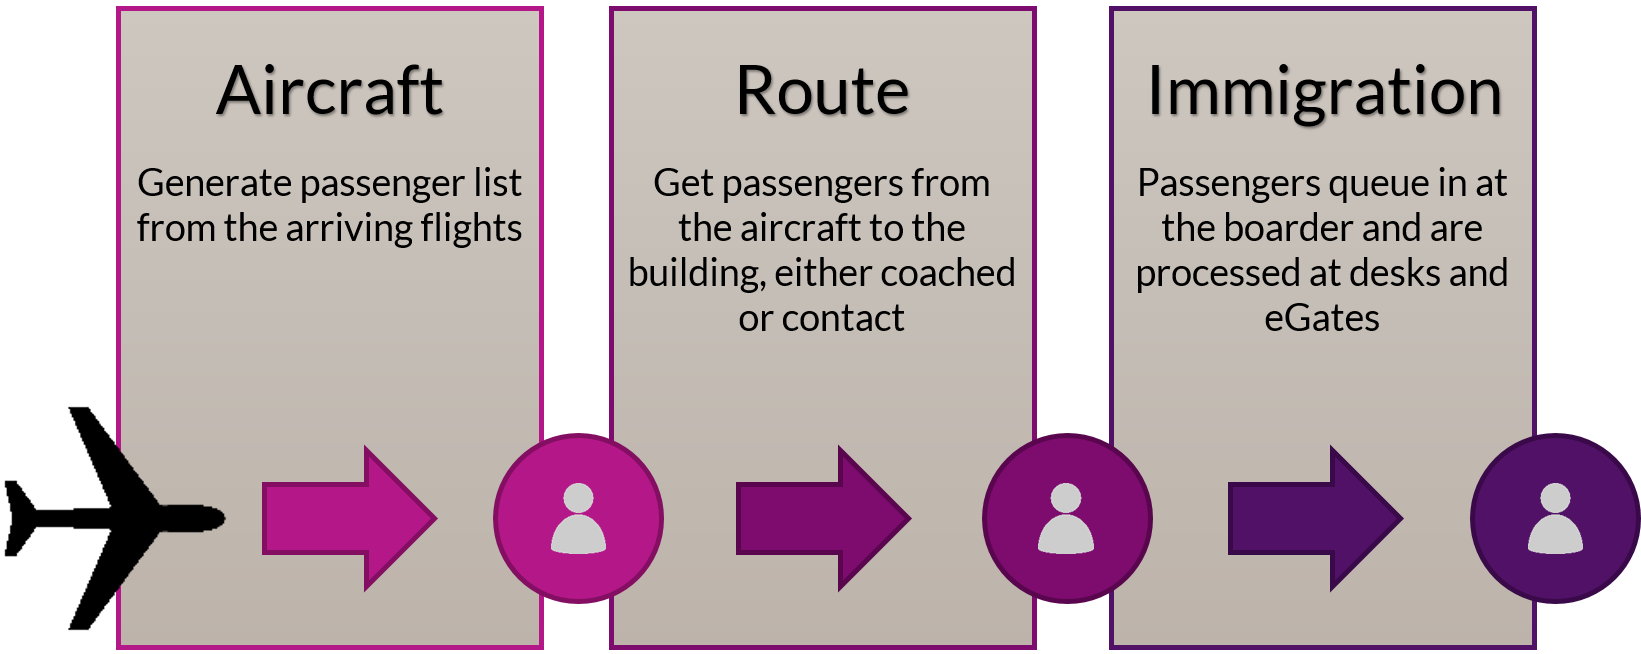
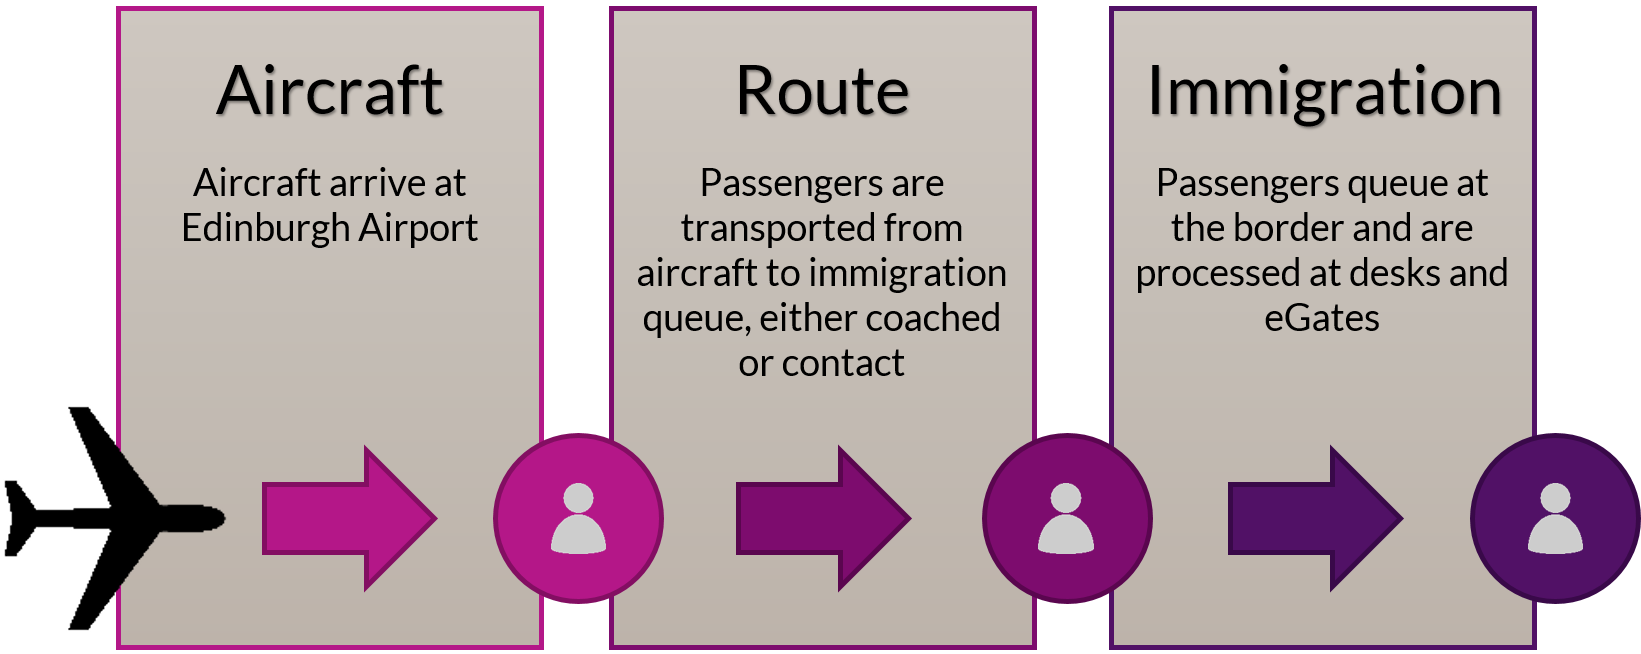
Updates from Overleaf

diff --git a/report/report.tex b/report/report.tex
@@ -6,10 +6,10 @@
 % \usepackage{epsf}
 
 % Draft watermark
-\usepackage[
-stamp = true,
-firstpageonly = true
-]{draftwatermark}
+% \usepackage[
+% stamp = true,
+% firstpageonly = true
+% ]{draftwatermark}
 
 % Font and formatting
 \usepackage[default]{lato}
@@ -194,34 +194,34 @@ We assume that the passenger nationality split depends on departure airport, and
 
 \section{Methods} \label{sec:methods}
 
-In this section we describe our methodology, including details of our abstract modelling framework, practical implementation, construction of a variety of demand scenarios, and the system for evaluating \glspl{kpi} and \glspl{sla}.
+In this section we describe our methodology, including details of our modelling framework, practical implementation, and system for evaluating \glspl{kpi} and \glspl{sla}.
 
 \subsection{Passenger Processing Model}
 
-For all subsequent modelling we use a conceptual `passenger processing model' describing the steps an arriving international passenger experiences at Edinburgh Airport. Such a model is inherently a simplified view, but chosen at a level of abstraction which is nevertheless informative of real-world procedures. Our passenger processing model consist of the three following steps, which are visualised in Figure~\ref{fig:PPM_threesteps}.
-\begin{enumerate}
-    \item \textbf{Aircraft}: Aircraft with passengers on board arrive at Edinburgh Airport. The aircraft taxi to their parking positions and their doors are opened. \label{step:aircraft}
-    \item \textbf{Route}: Passengers make their way from their aircraft to the immigration hall, either by walking to the building (contact) or via a bus (coached). \label{step:route}
-    \item \textbf{Immigration}: Passengers queue in the immigration hall and are processed at the border, either by a \gls{bfo} at a desk or at an \gls{egate}. \label{step:immigration}
-\end{enumerate}
+For all subsequent modelling we use a conceptual `passenger processing model' describing the steps an arriving international passenger experiences at Edinburgh Airport. Such a model is inherently a simplified view, but chosen at a level of abstraction which is nevertheless informative of real-world procedures. Our passenger processing model consists of three steps, which are described and visualised in Figure~\ref{fig:PPM_threesteps}.
+% \begin{enumerate}
+%     \item \textbf{Aircraft}: Aircraft with passengers on board arrive at Edinburgh Airport. The aircraft taxi to their parking positions and their doors are opened. \label{step:aircraft}
+%     \item \textbf{Route}: Passengers make their way from their aircraft to the immigration hall, either by walking to the building (contact) or via a bus (coached). \label{step:route}
+%     \item \textbf{Immigration}: Passengers queue in the immigration hall and are processed at the border, either by a \gls{bfo} at a desk or at an \gls{egate}. \label{step:immigration}
+% \end{enumerate}
   
  % We start with a dataset of arriving flights and generate a dataset of passengers (\textit{Aircraft} step). In the \textit{Route} step these passengers are then brought from the aircraft to the immigration hall. Finally, in the \textit{Immigration} step they queue up and are subsequently processed at the border.
 
 \begin{figure}[!ht]
     \centering
     \figuretitle{Abstracting arriving passengers' flow through the airport}
-    \includegraphics[width=0.7\textwidth]{figures/ThreeSteps.png}
+    \includegraphics[width=0.9\textwidth]{figures/ThreeSteps.png}
      \caption{Three steps that make up the passenger processing model.} \label{fig:PPM_threesteps}
 \end{figure}
 
 \subsection{Assumptions and Choices}
 % these are slightly different for competition and noise data
-At each step of the Passenger Processing Model there are assumptions to be made and choices to be taken. We summarise them here. Our key levers for robustness checks are the number of \glspl{egate}, \gls{egate} eligibility, and \gls{egate} uptake, which are defined in Section~\ref{subsec:choices_immigration}.
+Each step of our passenger processing model relies on assumptions to be made and choices to be taken. We summarise them here. Our key levers to determine demand scenarios are: (1) the number of \glspl{egate}, (2) \gls{egate} eligibility, and (3) \gls{egate} uptake, which are defined in Section~\ref{subsec:choices_immigration}.
 
 \subsubsection{Aircraft}
 
 \paragraph{Departing airport classification}
-The arrivals dataset provided by the modelling competition (Section~\ref{sec:future_arrivals_data}) does not contain information regarding the departing airport. As this is provided in the additional dataset (Section~\ref{sec:observed_arrivals_data}) we are able to randomly sample airport classifications for the competition dataset conditional on the number of passengers on the flight, for an approximate distributional match. 
+The arrivals dataset provided by the modelling competition (Section~\ref{sec:future_arrivals_data}) does not contain information regarding aircraft's departing airports. As this is provided in the additional dataset (Section~\ref{sec:observed_arrivals_data}) we are able to randomly sample airport classifications for the competition dataset conditional on the number of passengers on the flight, for an approximate distributional match. 
 
 
 
@@ -235,28 +235,28 @@ The competition data gives an overall split of flights that are coached or conta
 \subsubsection{Route}
 
 \paragraph{Coach availability}
-For this analysis we assume sufficient coaches are always available to transport passengers from the aircraft to the airport building. While this might not be always the case, it provides us with a `worst case' scenario from the perspective of the immigration hall, which is most interesting for us. Any delay in passengers due to unavailability of coaches would smooth out peaks.
+For this analysis we assume sufficient coaches are always available to transport passengers from the aircraft to the airport building. While this might not be the case for all flights, it provides us with a `worst case' scenario from the perspective of the immigration hall, which is of interest. Any delay in passengers due to unavailability of coaches would smooth out peaks.
 
 \paragraph{Arrival profile} 
- Passengers brought to the immigration hall by coach arrive at the queue in rapid succession. Coached passengers join the immigration queue, on average, every 1 second. In comparison, contact passengers make it to the immigration queue, on average, every 5 seconds.
+ Passengers brought to the immigration hall by coach arrive at the queue in rapid succession. Coached passengers join the immigration queue, on average, every 1 second. In comparison, contact passenger reach the immigration queue, on average, every 5 seconds.
 
 
 
 \subsubsection{Immigration} \label{subsec:choices_immigration}
 
-\paragraph{Number of eGates and desks} There are currently 10 \glspl{egate} and 9 \gls{bfo}-staffed desks in use at Edinburgh Airport. In our analysis we simulate the effects of an increasing number of \gls{egate}.
+\paragraph{Number of eGates and desks} There are currently 10 \glspl{egate} and 9 \gls{bfo}-staffed desks in use at Edinburgh Airport \cite{modelling_competition}. In our analysis we simulate the effects of an increasing number of \glspl{egate}.
 
 \paragraph{eGate eligibility}
-As only passengers from certain countries are can use \glspl{egate}, we make the percentage of passengers eligible for \glspl{egate} per aircraft dependent on the classification of its departue airport. For example, we assume that an aircraft coming from a hub is more likely to carry a variety of international passengers, of which fewer can use \glspl{egate} compared to a flight from a EU+ non-hub. 
+As only passengers from certain countries can use \glspl{egate}, we make the percentage of passengers eligible for \glspl{egate} per aircraft dependent on the classification of its departue airport. For example, we assume that an aircraft coming from a hub is more likely to carry a variety of international passengers, of which fewer can use \glspl{egate} compared to a flight from a EU+ non-hub. 
 
 \paragraph{eGate uptake} 
-Not all passengers who are eligible to use eGates choose to do so for a variety of reasons. As a base case we use a 80\% uptake in 2023, which is selectively increased in our simulation. 
+Not all passengers who are eligible to use eGates choose to do so, for a variety of reasons. We assume an 80\% uptake in 2023. 
 
 \paragraph{eGate usage}
-The \gls{egate} usage is the proportion of all passengers who go through an \gls{egate}. It equal to the product of \gls{egate} eligibility and \gls{egate} uptake.
+The \gls{egate} usage is the proportion of all passengers who enter an \gls{egate}. It is equal to the product of \gls{egate} eligibility and \gls{egate} uptake. In our simulations, we vary overall \gls{egate} usage over time between baseline and future levels provided by the modelling competition.
 
 \paragraph{Priority for failed eGate passengers}
-Passengers who used an \gls{egate}, but failed to use it successfully, need to exit the \gls{egate} back into the immigration hall to complete their immigration at a staffed desk. They join a separate queue towards the desks, which is located next to the general desk queue. Whenever a desk can handle a new person, priority is given to the passenger from the failed \gls{egate} queue with a probability of 75\%.
+Passengers who enter an \gls{egate}, but fail to use it successfully, need to exit the \gls{egate} back into the immigration hall to complete their immigration at a staffed desk. They join a separate queue, located by the front of the general desk queue. In our simulations, whenever a desk becomes available priority is given to the passenger from the failed \gls{egate} queue with a probability of 75\%.
 
 % \paragraph{Capacity split}
 % Which percentage of the hall capacity is allocated to the desk queue. Varied to change the effect of queue length of contingency usage.
@@ -264,120 +264,139 @@ Passengers who used an \gls{egate}, but failed to use it successfully, need to e
 
 \subsection{Implementation}
 
-For a given configuration of number of \glspl{egate}, eligibility, and uptake we produce a simulation of immigration queues based on our passenger processing model. Its output then allows us to calculate the \glspl{kpi} and \glspl{sla} as defined in Section~\ref{sec_kpi}~and~\ref{sec_sla}, respectively.  In the following we describe how the competition data set is used in each of the three steps of the passenger processing model. Figure~\ref{fig:workflow_fig} gives an illustration of our workflow for a two-hour window of anticipated arrivals.
+For a given configuration of number of \glspl{egate}, eligibility, and uptake we produce a simulation of immigration queues based on our passenger processing model. Its output then allows us to calculate the \glspl{kpi} and \glspl{sla} defined in Sections~\ref{sec_kpi}~and~\ref{sec_sla} respectively.  We now describe how the competition dataset is used in each of the three steps of the passenger processing model. Figure~\ref{fig:workflow_fig} gives an illustration of our workflow for a two-hour window of anticipated arrivals.
 
 \begin{figure}[!ht]
     \centering
     \figuretitle{Implementation of passenger processing model allows for systematic simulation of immigration queues}
     \includegraphics[width=1.1\textwidth]{figures/workflow_fig.png}
-    % \vspace{-5pt}
-     \caption{Example application of simulation workflow for three-stage passenger processing model, applied to anticipated arrivals schedule between 08:00am and 10:00am on the 11th of June, 2023. \textbf{Left}: Aircraft of different sizes arrive at Edinburgh Airport. Arrows from scheduled to actual arrival time. \textbf{Centre}: Passengers disembark from their aircraft and are coached or walk via contact to to immigration hall. Passenger count is coloured by flight. \textbf{Right}: Passengers queue, either for a desk border check or an \gls{egate}. Queue length is reported every minute (upper panel), and wait time from arrival in the immigration hall to the start of the relevant border check (lower panel).} \label{fig:workflow_fig}
+     %\vspace{-10pt}
+     \caption{Example application of simulation workflow for three-stage passenger processing model, applied to anticipated arrivals schedule between 08:00am and 10:00am on the 11th of July, 2023. \textbf{Left}: Aircraft of different sizes arrive at Edinburgh Airport. Arrows from scheduled to actual arrival time. \textbf{Centre}: Passengers disembark from their aircraft and are coached or walk via contact to the immigration hall. Passenger count is coloured by flight. \textbf{Right}: Passengers queue, either for a desk border check or an \gls{egate}. Queue length is reported every minute (upper panel), and wait time is calculated from arrival in the immigration hall to the start of the relevant border check (lower panel).} \label{fig:workflow_fig}
 \end{figure}
 
 \subsubsection{Aircraft}
-We take the provided flight schedule data as an input of the Aircraft step. We assume that all of the flights provided are coming from non-UKIE destinations and hence their passengers need to clear immigration at Edinburgh Airport. Based on the flight schedule we simulate the actual arrival according to the given delayed/early arrival information. Given the provided split per year we decide for each flight if it is coached or contact. Based on this we sample a base route time (walking or coached) from the parking position. The passenger numbers per flight are known, and we use this information to sample a departure airport classification according to the empirical distribution obtained from the historic flight data. Taking the above flight information as an input we generate a list of passengers per flight. For each passenger we sample a nationality classification based on the departure airport. The output of the Aircraft step is a passenger list, which also contains all the covariates describing their flight.
+We take the provided flight schedule data as an input to the Aircraft step. We assume that all of the flights provided are coming from non-UKIE destinations and hence their passengers need to clear immigration at Edinburgh Airport. Based on the flight schedule we simulate actual time of arrival. Given the provided split per year we simulate whether a flight is coached or contact. According to this we sample a baseline route time (walking or coached) from the aircraft's parking position to the immigration queue. 
+
+Passenger numbers per flight are known, and we use this information to sample a departure airport classification according to the empirical distribution obtained from the historic flight data. Taking the above flight information as an input we generate a list of passengers per flight. For each passenger we sample a nationality classification based on the departure airport. The output of the Aircraft step is a passenger list, which also contains all relevant information describing their flight.
 
 \subsubsection{Route}
 
-Given the passenger list from the previous step, we simulate the time each passenger spends getting from their flight's parking position and to the immigration queue. This is depending on the base route time 
-of the flight and whether they were on a coached flight or not. This step adds additional information to each passenger. Crucially, it gives us the arrival time of each passenger at the immigration queue. 
+Given the passenger list from the previous step, we simulate the time each passenger spends getting from their flight's parking position to the immigration queue. This depends on the baseline route time 
+of their flight and whether they were coached or not. This step gives us the arrival time of each passenger at the immigration queue. 
 
 \subsubsection{Immigration}
 
-Based on the passenger-level information obtained in the previous step we now process each passenger at the border according to their arrival time at the immigration queue. First, we determine the eligibility to use \glspl{egate} per passenger according to their nationality classification. 
+Based on the passenger-level information obtained in the previous step we now process each passenger at the border according to their arrival time at the immigration queue. First, we determine the eligibility to use \glspl{egate} per passenger in line with their simulated nationality classification. 
 
-Passengers not eligible to use \glspl{egate} join the desk queue and, once they reach the front of the queue and a free desk becomes available, they are processed by a \gls{bfo}. We sample the processing time for each passenger such that the transaction times match the provided information. Once a passenger is processed at a desk they have cleared immigration and leave the system.
+Passengers not eligible to use \glspl{egate} join the desk queue and, once they reach the front of the queue and a desk becomes available, they are processed by a \gls{bfo}. We sample the processing time for each passenger according to the provided distributional assumptions. Once a passenger is processed at a desk they have cleared immigration and leave the system.
 
-Not all passengers eligible to use \glspl{egate} will do so. The decision to use \gls{egate} is taken for each eligible passenger according to the chosen \gls{egate} uptake rate. \gls{egate}-eligible passengers who choose to use a desk instead join the desk queue and are processed like any other passengers in that queue. 
+Not all passengers eligible to use \glspl{egate} will do so. The decision to use an \gls{egate} is taken for each eligible passenger as per the given \gls{egate} uptake rate. Passengers eligible to use an \gls{egate} who use a desk instead join the desk queue and are processed like any other passenger in that queue. 
 
-Those who are eligible to use \glspl{egate} and choose to do so join the \gls{egate} queue. Once a passenger reaches the front of the queue and a free \gls{egate} becomes available they step into the \gls{egate} and are processed according to the provided transaction time. Most passengers finish this process successfully and exit the \gls{egate} on the other side, which completes their immigration and they exit the system.
+Those who are eligible and selected to use an \gls{egate} join the \gls{egate} queue. Once a passenger reaches the front of the queue and an \gls{egate} becomes available they step into the \gls{egate} and are processed with a transaction time drawn from the provided distribution. Most passengers finish this process successfully and pass through the \gls{egate} to the other side, which completes their immigration and they exit the system.
 
-A small fraction of passengers does not pass the \gls{egate} successfully. They are prompted to step out of the \gls{egate} back into the hall and have not completed immigration yet. Instead, they need to be processed by a \gls{bfo}. For that, these passengers are directed towards a separate queuing area in the middle of the hall that brings them towards the front of the desk queue. When a desk becomes available passengers that have failed the \gls{egate} have priority over the passenger at the front of the desk queue with a defined probability. Once they reach a desk, they are processed like any other passenger from the desk queue and exit the system.
+A small number of passengers fail to use the \gls{egate} successfully. They are prompted to step out of the \gls{egate} back into the hall and have not yet completed immigration. Instead, they need to be processed by a \gls{bfo}. For that, these passengers are directed towards a separate queuing area in the middle of the hall that brings them towards the front of the desk queue. When a desk becomes available passengers that have failed the \gls{egate} have priority over the passenger at the front of the desk queue with a defined probability. Once they reach a desk, they are processed like any other passenger from the desk queue and exit the system.
 
+\subsection{KPIs and SLAs}
+The output of a full simulation of our passenger processing model contains information on a passenger level. For each passenger we record whether they used an \gls{egate} or a desk and how much time passed between their arrival at the immigration queue and the start of their border check. Based on this, we calculate the relevant \glspl{kpi} regarding wait times per passenger and the length of the immigration queue at a given point in time. These then feed into the respective \glspl{sla} as defined in Section~\ref{sec_sla}.
 
 \section{Recommendation}
 
-Based on the methodology described in Section~\ref{sec:methods} we have simulated a variety of scenarios. There are three key values that we vary across simulations (1) the number of \glspl{egate}, (2) the \gls{egate} eligibility, and (3) the \gls{egate} uptake. This now allows us to make recommendations for the appropriate number of \glspl{egate} to cope with future demand on border operations at Edinburgh Airport. Robustness considerations are subsequently undertaken in Section~\ref{sec:robustness}. 
+Based on the methodology described in Section~\ref{sec:methods} we have simulated a variety of scenarios. There are three quantities that we vary across simulations: (1) the number of \glspl{egate}, (2) \gls{egate} eligibility, and (3) \gls{egate} uptake. This allows us to make recommendations for an appropriate number of \glspl{egate} to cope with future demand on border operations at Edinburgh Airport. Robustness considerations are subsequently undertaken in Section~\ref{sec:robustness}. 
 
 \subsection{Number of eGates} \label{sec:rec_num_egates}
 
-The lowest feasible number of \glspl{egate} is of interest to Edinburgh Airport. Based on our extensive simulations we recommend the \gls{egate} strategy outlined in Table~\ref{tab:core_recommendation}, where for each year we give the minimum recommended number of \glspl{egate} to be available for that year (including currently available \glspl{egate}). 
+The lowest feasible number of \glspl{egate} is of interest to Edinburgh Airport. Based on our extensive simulations we recommend the \gls{egate} strategy outlined in Table~1, where for each year we give the minimum recommended number of \glspl{egate} to be available for that year (including currently available \glspl{egate}). 
 
-\input{tables/core_recommendation}
-% \begin{table}[!htp]
-%     \centering
-%     \begin{tabular}{cccccc} \hline
-%          \textbf{2023} & \textbf{2024} & \textbf{2025} & \textbf{2026} & \textbf{2027}  \\ \hline
-%           x & x & x & x & x \\
-%           \hline
-%     \end{tabular}
-%     \caption{Core recommendation for eGate construction.}
-%     \label{tab:core_recommendation}
-% \end{table}
+\vspace{2mm}
+\tcbset{colframe=edi-dark-purple,colback=edi-light-purple,colupper=black,
+fonttitle=\bfseries,nobeforeafter,center title}
+\begin{center}
+\tcbox[left=00mm,right=00mm,top=0mm,bottom=0mm,boxsep=0mm,
+toptitle=0.5mm,bottomtitle=0.5mm,title={Table~1: Core recommendation for eGate construction}]{%
+\renewcommand{\arraystretch}{1.2}%
+\begin{tabular}{ccccccccc}
+& & \textbf{2023} & \textbf{2024} & \textbf{2025} & \textbf{2026} & \textbf{2027} & &  \\\hline
+ ~~~~ & ~~~~ & 15 & 19 & 21 & 23 & 23 & ~~~~ & ~~~~\\
+\end{tabular}}
 
-This strategy has been chosen such that more than 99\% of passengers that use \glspl{egate} wait less than an hour for every year in the given period and that no more than five hours per week of contingency usage are observed while the \gls{egate} hall queue is full. All simulations are under the assumptions of eligibility and uptake shown in Figure~\ref{fig:core_rec_fig}. Following this strategy, the proportion of \gls{egate} passengers waiting for less than 15 minutes (Edinburgh Airport's internal target) is always above 90\%. 
+\end{center}
+\vspace{1mm}
+% \input{tables/core_recommendation}
 
-Without changes to \gls{egate} eligibility and uptake, no amount of \gls{egate} construction will prevent their being some pressure on Edinburgh Airport's desk border check queues. In the simulations shown we have assumed smooth transitions in \gls{egate} eligibility and uptake leading up to the airport's 95\% total usage target for 2028 (see Section~\ref{subsec:choices_immigration}; bottom left panel of Figure~\ref{fig:core_rec_fig}). In this scenario, desk wait times (centre panel of Figure~\ref{fig:core_rec_fig}) do not meet \glspl{sla} until improvements in \gls{egate} usage are made later in the time frame XXX. Most concerningly, extensive time is spent using contingency and even exceeding contingency capacity due to queues for desk border checks (right hand panel). 
+This strategy has been chosen such that at least 99\% of \glspl{egate} passengers wait less than an hour for every year in the given period and that no more than five hours per week of contingency usage are observed while the \gls{egate} hall queue is full. All simulations are under the assumptions of eligibility and uptake shown in Figure~\ref{fig:core_rec_fig}. Following this strategy, the proportion of \gls{egate} passengers waiting for less than 15 minutes (Edinburgh Airport's internal target) is always above 90\%. This recommendation results in simulated average wait times for \glspl{egate} of between 1.5 and 4 minutes over the five-year period. These are lower than historic UK wait times, and in line with wait times at Stansted and Luton, which reported particularly low figures. 
 
 \begin{figure}[!ht]
     \centering
     \figuretitle{Under core recommendation, eGate queue lengths and wait times meet SLAs}
     \includegraphics[width=\textwidth]{figures/core_rec_fig.png}
-     \caption{\textbf{Left}: \gls{egate} construction recommendation and assumed progression of \gls{egate} eligibility and uptake. \textbf{Centre}: Wait time \glspl{kpi}, averaged over 25 simulations. \textbf{Right}: Queue length \glspl{kpi}, also over 25 simulations.} \label{fig:core_rec_fig}
+     \caption{\textbf{Left}: \gls{egate} construction recommendation and assumed progression of \gls{egate} eligibility and uptake. \textbf{Centre}: Wait time \glspl{kpi}, averaged over 100 simulations. \textbf{Right}: Queue length \glspl{kpi}, also over 100 simulations.} \label{fig:core_rec_fig}
 \end{figure}
 
-This recommendation results in simulated average wait times for \glspl{egate} of between XX and XX minutes over the five-year period. This is lower than historic average wait times across the UK. These numbers are in line with the wait times at Stansted and Luton, which reported particularly low figures. 
+In the simulations shown we have assumed smooth transitions in \gls{egate} eligibility and uptake leading up to the airport's 95\% total usage target for 2028 (see Section~\ref{subsec:choices_immigration}; bottom left panel of Figure~\ref{fig:core_rec_fig}). In this scenario, desk wait times (centre panel of Figure~\ref{fig:core_rec_fig}) do not meet \glspl{sla} until improvements in \gls{egate} usage are made. Extensive time is spent using contingency and even exceeding contingency capacity due to queues for desk border checks (right hand panel). 
+
+These predictions for queues of passengers waiting to be processed by desks are concerning, and deserve further justification as being a direct consequence of the provided modelling assumptions. We therefore consider a window of time between 11am and 5pm on June 10th 2023 -- the very first date in the time period under study. In these six hours, 6,864 passengers are scheduled to arrive at Edinburgh Airport. Of these passengers, 40\% (2,746) are expected to queue for desk processing according to the airport's estimates of overall \gls{egate} usage. The immigration hall has nine desks, each processing on average one passenger per ninety seconds. We may therefore expect 360 passengers to be processed per hour, or 2,160 over the six hour period in question. This therefore leaves at least 586 passengers still queuing for desks at 5pm on June 10th \emph{regardless of the distribution of arrivals throughout that window}. This, absent any consideration of \gls{egate} passengers, leaves the hall well above capacity. In light of the above, without changes to underlying modelling assumption provided by the airport no number of \glspl{egate} can be expected to avoid the scenarios of contingency usage and even exceeding of contingency capacity described in Figure~\ref{fig:core_rec_fig}.
+
 
  % Our recommendation implies the purchase of a total XX new \glspl{egate}, as there are currently 10 \glspl{egate} in operation at Edinburgh Airport. To put this number into perspective, the Home Office has approved funding of up to 70 \glspl{egate} UK-wide to increase capacity at larger airports \cite{Inspection_eGates}. With Edinburgh being among the top ten busiest airports in the UK \cite{busiestairport}, it does not seem unreasonable to assume that XXX new \glspl{egate} are built over the course of five years. \bdnote{i think this paragraph should go}
 
-\newpage
 \subsection{Hall Space Allocation}
 
-The queue space in the immigration hall is separated for the desk and \gls{egate} queue. We assume that this split is not altered on a regular basis. As part of our analysis it was crucial to investigate the optimal split of immigration hall capacity between the two queues for each year. After extensive simulation we found overflow usage was minimised (given our core assumptions on \gls{egate} eligibility and uptake) under the split outlined in Table~\ref{tab:split}. This proposed queue space allocation has been used in all our simulations to determine overflow and contingency usage.
+Space in the immigration hall is separated for desk and \gls{egate} queues. We assume that this split is not altered frequently. However, we do investigate the impact on \glspl{sla} when hall split is allowed to vary year-by-year. For each year, we simulate the impact of multiple hall split scenarios and choose a realistic hall split that minimises overall usage of contingency space. These splits are outlined in Table~2, and reflected in the results shown in the previous section. As mentioned, we find that pressure on desk queues is particularly strong in the years 2023-2025, corresponding to the allocation of a significant proportion of hall space to desk queues. This trend is reversed towards the end of the study period, by which time most passengers use \glspl{egate}.
 
-\begin{table}[!htp]
-    \centering
-    \begin{tabular}{ccccccc} \hline
-        & \textbf{2023} & \textbf{2024} & \textbf{2025} & \textbf{2026} & \textbf{2027}  \\ \hline
-         eGate & x & x & x & x & x \\
-         Desk & x & x & x & x & x \\
-          \hline
-    \end{tabular}
-    \caption{Percentage of hall space allocated to each queue.}
-    \label{tab:split}
-\end{table}
+% After extensive simulation we found overflow usage was minimised (given our core assumptions on \gls{egate} eligibility and uptake) under the split outlined in Table~2. This proposed queue space allocation has been used in all our simulations to determine overflow and contingency usage.
+
+% The pressure on the desk queue is particularly strong in the earlier years, which is reflected in a significant proportion of hall space being allocated to the desk queue. This is reversed towards the end of the observation period when most passengers use \glspl{egate} due to the increased uptake.
+
+\vspace{2mm}
+\tcbset{colframe=edi-dark-purple,colback=edi-light-purple,colupper=black,
+fonttitle=\bfseries,nobeforeafter,center title}
+\begin{center}
+\tcbox[left=00mm,right=00mm,top=0mm,bottom=0mm,boxsep=0mm,
+toptitle=0.5mm,bottomtitle=0.5mm,title={Table~2: Percentage of hall space allocated to each queue}]{%
+\renewcommand{\arraystretch}{1.2}%
+\begin{tabular}{cccccccccc}
+ & & \textbf{Queue Type} & \textbf{2023} & \textbf{2024} & \textbf{2025} & \textbf{2026} & \textbf{2027} & &  \\\hline
+~ & ~ & eGate & 25\% & 25\% & 25\% & 30\% & 75\% & ~ & ~\\
+~ & ~ & Desk & 75\% & 75\% & 75\% & 70\% & 25\% & ~ & ~
+\end{tabular}}
+\label{tab:split}
+\end{center}
 
 
 \section{Robustness Considerations} \label{sec:robustness}
-In producing the recommendation given Section~\ref{sec:rec_num_egates}, we made assumptions about external factors such as \gls{egate} eligibility and the progress of \gls{egate} construction that could be liable to change. Here we investigate the effect of such variation on the performance of immigration services.
+In producing the recommendation given in Section~\ref{sec:rec_num_egates}, we made assumptions about external factors such as \gls{egate} eligibility and the progress of \gls{egate} construction that could be liable to change. Here we investigate the effects of such variation on the performance of immigration services.
 
 \subsection{Eligibility, Uptake, and Usage}
-Edinburgh Airport envisages 95\% of passengers using \glspl{egate} at the end of 2027, up from 60\% in 2022. Overall \gls{egate} usage is equal to the product of \gls{egate} eligibility and uptake. While increases in \gls{egate} eligibility are planned \cite{UK_border_2025}, they fall largely outside of Edinburgh Airport's direct control. We therefore aimed to test whether lower than anticipated \gls{egate} eligibility could be compensated for by improvements to \gls{egate} uptake. We simulated a variety of combinations of eligibility and uptake for arrivals in 2027, the busiest year forecast in the given time period. In Figure~\ref{fig:robustness_fig} we show a selected range of \glspl{kpi} for these scenarios, and see that, as long as eligibility reaches XX\%, acceptable performance is achievable purely through compensatory uptake.
+Edinburgh Airport envisages 95\% of passengers using \glspl{egate} by the end of 2027, up from 60\% at present. Overall \gls{egate} usage is equal to the product of \gls{egate} eligibility and uptake. While increases in \gls{egate} eligibility are planned \cite{UK_border_2025}, they fall largely outside of Edinburgh Airport's direct control. We therefore investigate whether lower than anticipated \gls{egate} eligibility could be compensated for by improvements in \gls{egate} uptake. We simulate a variety of combinations of eligibility and uptake for arrivals in 2027, the busiest year forecast, with the recommended 23 \glspl{egate}. In Figure~\ref{fig:robustness_fig} we show a range of \glspl{kpi} for these scenarios, and see that, as long as eligibility reaches 90\%, acceptable performance is achievable purely through compensatory uptake.
 
 \begin{figure}[!ht]
     \centering
     \figuretitle{With lower than expected eGate eligibility, increased eGate uptake can compensate}
     \includegraphics[width=\textwidth]{figures/robustness_fig.png}
-     \caption{\textbf{Top panels}: Average (over 25 simulations) number of minutes in 2027 week spent with contingency use caused by \gls{egate} or desk queues, under a variety of eligibility/uptake scenarios. \textbf{Bottom panels}: Average (over 25 simulations) proportion of passengers waiting less than 60 minutes, for the same range of scenarios.} \label{fig:robustness_fig}
+     \caption{\textbf{Top panels}: Average (over 100 simulations) number of minutes in 2027 week spent with contingency use caused by \gls{egate} or desk queues, under a variety of eligibility/uptake scenarios. \textbf{Bottom panels}: Average (over 25 simulations) proportion of passengers waiting less than 60 minutes, for the same range of scenarios.} \label{fig:robustness_fig}
 \end{figure}
 
 \subsection{Number of eGates}
-We selected the recommendation laid out in Section~\ref{sec:rec_num_egates} in order to minimise the need for new \gls{egate} construction while satisfying the conditions we described. However, for practical reasons the airport may choose to place immigration services under stress for a short period in order to construct more \glspl{egate} at once. It is also possible that \glspl{egate} may fail or be delayed in construction. In Figure~\ref{fig:minus_core_rec_fig}, therefore, we present identical analytics to Figure~\ref{fig:core_rec_fig} for a `delayed-by-one-year' strategy.
+We selected the recommendation laid out in Section~\ref{sec:rec_num_egates} in order to minimise the need for new \gls{egate} construction while satisfying the conditions we described. However, for practical reasons the airport may choose to place immigration services under stress for a short period in order to construct more \glspl{egate} at once. It is also possible that \glspl{egate} may fail or be delayed in construction. 
 
- Here, for each year we consider the number of available \glspl{egate} recommended for the previous year (or the current number, 10, for the year 2023). When fewer \glspl{egate} than recommended are built, the proportion of passengers waiting less than an hour is not majorly impacted, while there is some decrease to passengers meeting the airport's fifteen minute target.  However, the impact on contingency usage is stark when too few \glspl{egate} are available. Under such circumstances, the \gls{egate} queue can exceed the contingency capacity, which would cause significant disruption to the airport. This is preventable through the construction of an appropriate number of \glspl{egate}.
+In Figure~\ref{fig:minus_core_rec_fig}, therefore, we present identical analytics to Figure~\ref{fig:core_rec_fig} for a `delayed-by-one-year' strategy. Here, for each year we consider the number of available \glspl{egate} recommended for the previous year (or the current number, 10, for the year 2023).
+
+ When fewer \glspl{egate} than recommended are built, the proportion of passengers waiting less than an hour is not majorly impacted, while there is some decrease to passengers meeting the airport's fifteen minute target.  However, the impact on contingency usage is stark when too few \glspl{egate} are available. Under such circumstances, the \gls{egate} queue can exceed the contingency capacity, which would cause significant disruption to the airport. This is preventable through the construction of an appropriate number of \glspl{egate}.
 
 \begin{figure}[!t]
     \centering
     \figuretitle{With fewer eGates than recommended, queue length SLAs are breached}
     \includegraphics[width=\textwidth]{figures/minus_core_rec_fig.png}
-     \caption{\textbf{Top Left}: Adjusted \gls{egate} construction schedule, with one fewer \glspl{egate} than recommended for each of the years 2024-2027. \textbf{All other panels}: as in Figure~\ref{fig:core_rec_fig}.} \label{fig:minus_core_rec_fig}
+     \caption{\textbf{Top Left}: Adjusted \gls{egate} construction schedule, with fewer \glspl{egate} than recommended for each of the years 2024-2027, where construction is delayed by one year. \textbf{All other panels}: as in Figure~\ref{fig:core_rec_fig}.} \label{fig:minus_core_rec_fig}
 \end{figure}
 
 
 
 
 \section{Conclusions}
-Edinburgh Airport has identified strain on immigration services due to increased passenger burden as a risk to border operations over the next five years. To address this, we have developed a simulation model to test different demand scenarios and process enhancements, which can be explored interactively via a \href{https://jacob-bradley.shinyapps.io/shiny/}{Shiny App} (see login credential at the end of the document). We have incorporated data provided by the modelling competition and external sources to guide simulation scenarios. Where we could not find appropriate data sources, we have made assumptions erring towards pessimistic values in order to evaluate worst-case scenarios. We have provided a central recommendation for the construction of 5-4-2-2-0 new \glspl{egate} by 2024, 2025, 2026, and 2027 respectively. From extensive simulation and robustness analyses, our key conclusions are as follows.
+Edinburgh Airport has identified strain on immigration services due to increased passenger burden as a risk to border operations over the next five years. To address this, we have developed a simulation model to test different demand scenarios and process enhancements, which can be explored interactively via a \href{https://jacob-bradley.shinyapps.io/shiny/}{Shiny App} (see login credential at the end of the document). 
+
+We have incorporated data provided by the modelling competition and external sources to guide simulation scenarios. Where we could not find appropriate data sources, we have made assumptions erring towards pessimistic values in order to evaluate worst-case scenarios. We have provided a central recommendation for the construction of 5-4-2-2-0 new \glspl{egate}. From extensive simulation and robustness analyses, our key conclusions are as follows.
 
 \begin{tcolorbox}[
 colframe=edi-dark-purple,
@@ -408,7 +427,7 @@ In our analysis we have simulated `normal' border operations. This excludes spec
 
 Throughout our analyses we have assumed aircraft delays to occur independently. In practice, delays are highly interrelated, as well as being associated with weather and air traffic control operations.
 
-In 2019, 55\% of all flights arriving at Edinburgh Airport came from UKIE airports \cite{noise_lab}. It is currently unclear whether domestic air travel will become less popular, with any future trends depending on government policy \cite{flight_tax_independent}, post-Covid travel habits \cite{post_covid_flights}, and competition from other infrastructure including rail \cite{train_airplane_guardian}. If Edinburgh and other airports shift to more non-UKIE flights, demand on border operations would continue to change in complex ways. For example, while overall passenger burden on immigration might increase, logistical simplifications could be possible with reduced need to provide separated routes for domestic and international arrivals.
+In 2019, 55\% of all flights arriving at Edinburgh Airport came from UKIE airports \cite{noise_lab}. It is currently unclear whether domestic air travel will become less popular, with any future trends depending on government policy \cite{flight_tax_independent}, post-Covid travel habits \cite{post_covid_flights}, and competition from other infrastructure including rail \cite{train_airplane_guardian}. If Edinburgh shift to more non-UKIE flights, demand on border operations would continue to change in complex ways. For example, while overall passenger burden on immigration might increase, logistical simplifications could be possible with reduced need to provide separated routes for domestic and international arrivals.
 
 Demand for contact stands for aircraft at Edinburgh Airport is expected to increase with arrivals, in particular increasing arrivals of aircraft with large wingspans and/or retrofitted winglets (which may take up two stands) \cite{dijk2019recoverable}. Site footprint restrictions make the construction of new contact stands unlikely. Future arrivals could therefore skew more strongly towards coached flights. While this is reflected in the modelling assumptions provided here, future work might incorporate operational factors to understand under what circumstances coached arrivals are most likely to be more predominant (e.g. later in the day). 
 
@@ -427,8 +446,6 @@ title = {Use our Shiny Application to interactively explore demand scenarios!}]
 \item URL: \url{https://jacob-bradley.shinyapps.io/shiny/}
 \item Username: \texttt{edi-airport} \quad Password: \texttt{flowhost}
 \end{itemize}
-
-
 \end{tcolorbox}
 
 {\footnotesize

diff --git a/report/summary.tex b/report/summary.tex
@@ -103,7 +103,7 @@ title = {Report Highlights}]
 \end{enumerate}
 \end{tcolorbox}
 \paragraph{Recommendations}
-We propose a schedule for \glsxtrshort{egate} construction that sees 15 \glsxtrshortpl{egate} available by 2023, 19 by 2024, 21 by 2025, 23 by 2026, and 23 by 2027. From a baseline of 10 \glsxtrshortpl{egate} currently available, this entails a X\% increase spread over the five year period. We also strongly recommend that the airport pursue measures to increase \glsxtrshort{egate} usage via eligibility and uptake, in line with the 2025 UK Border Strategy. 
+We propose a schedule for \glsxtrshort{egate} construction that sees 15 \glsxtrshortpl{egate} available by 2023, 19 by 2024, 21 by 2025, 23 by 2026, and 23 by 2027. From a baseline of 10 \glsxtrshortpl{egate} currently available, this entails a 130\% increase spread over the five year period. We also strongly recommend that the airport pursue measures to increase \glsxtrshort{egate} usage via eligibility and uptake, in line with the 2025 UK Border Strategy. 
 
 
 \paragraph{Results}
